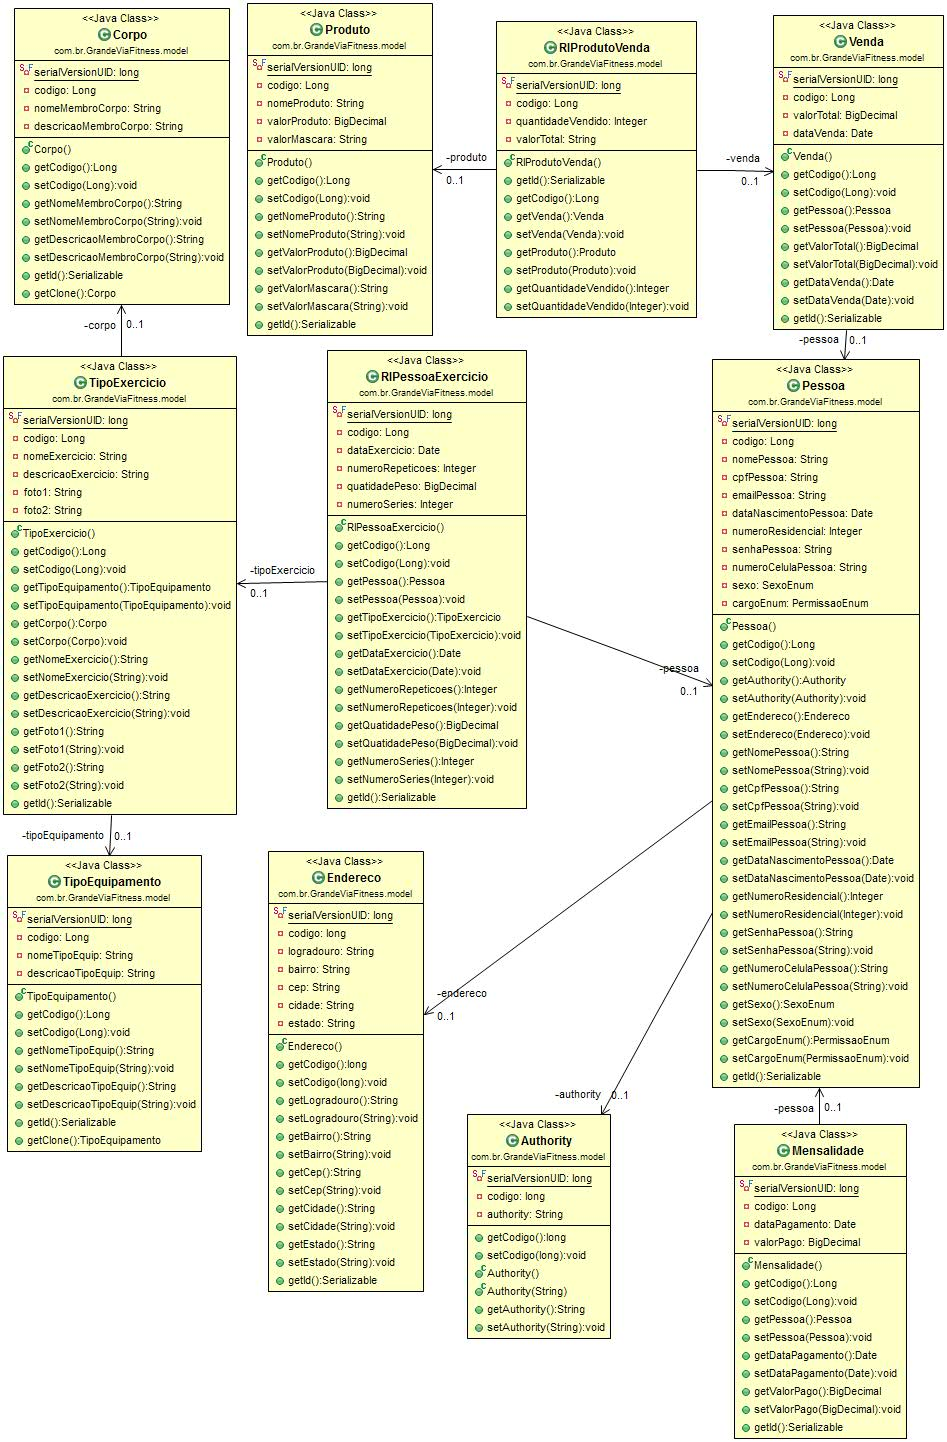
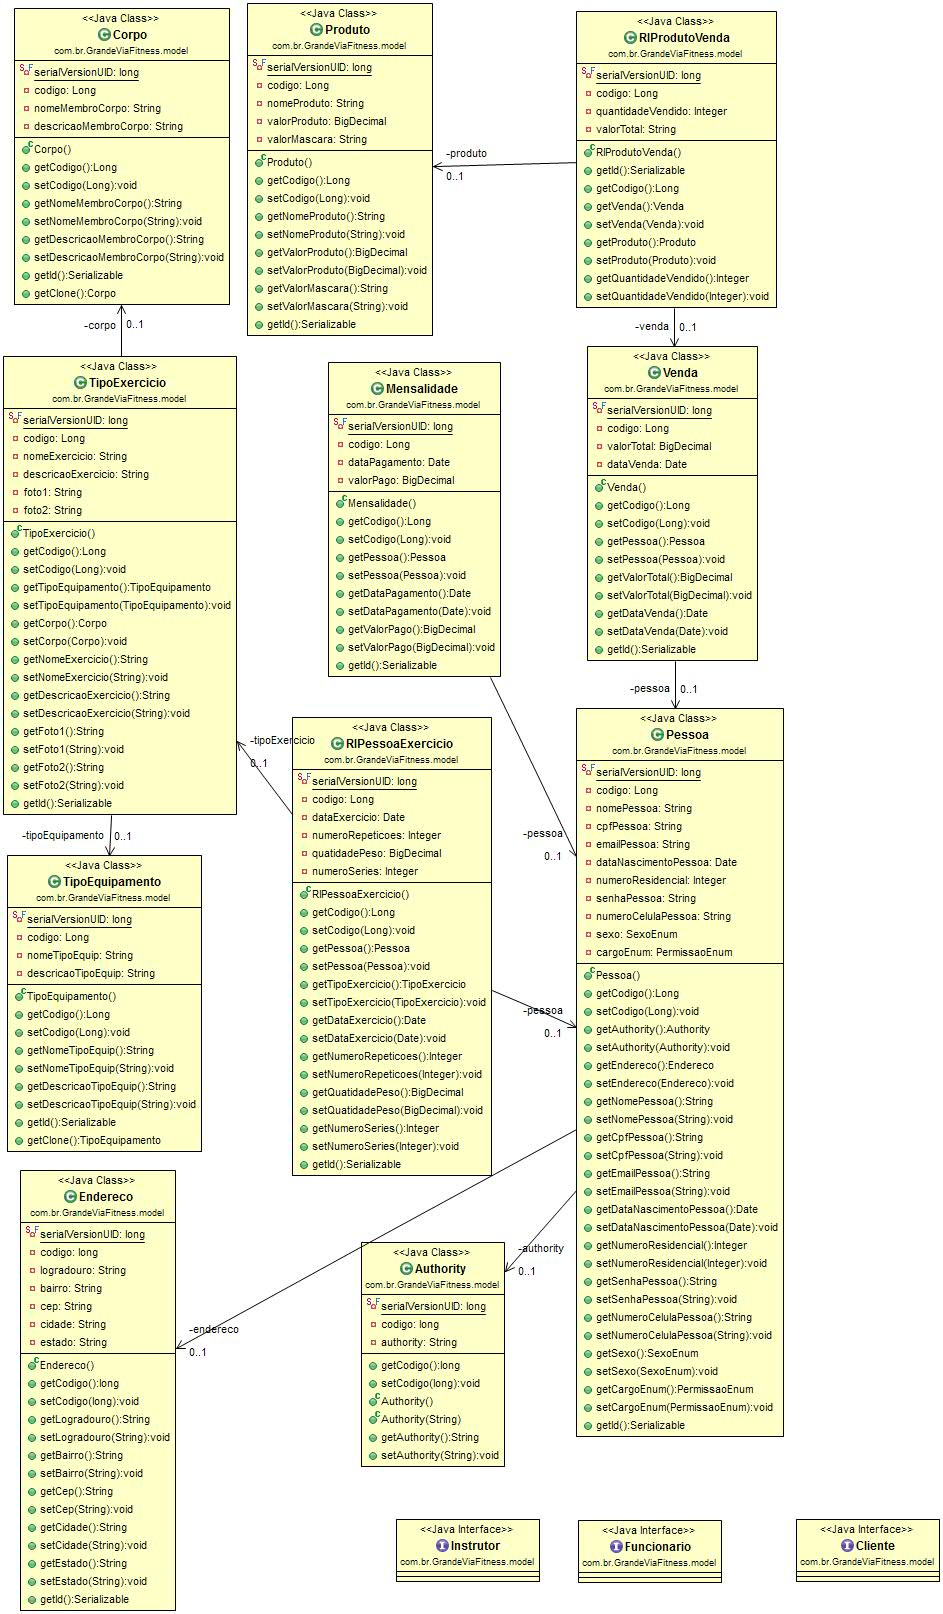
Foi adicionado A class cliente funcionario e instrutor para criação do diagraa de classe

diff --git a/GrandeViaFitness/src/main/java/com/br/GrandeViaFitness/model/Funcionario.java b/GrandeViaFitness/src/main/java/com/br/GrandeViaFitness/model/Funcionario.java
@@ -1,0 +1,6 @@
+package com.br.GrandeViaFitness.model;
+
+public interface Funcionario
+{
+
+}

diff --git a/GrandeViaFitness/src/main/java/com/br/GrandeViaFitness/model/Instrutor.java b/GrandeViaFitness/src/main/java/com/br/GrandeViaFitness/model/Instrutor.java
@@ -1,0 +1,6 @@
+package com.br.GrandeViaFitness.model;
+
+public interface Instrutor
+{
+
+}

diff --git a/GrandeViaFitness/src/main/java/com/br/GrandeViaFitness/model/Cliente.java b/GrandeViaFitness/src/main/java/com/br/GrandeViaFitness/model/Cliente.java
@@ -1,0 +1,6 @@
+package com.br.GrandeViaFitness.model;
+
+public interface Cliente
+{
+
+}
